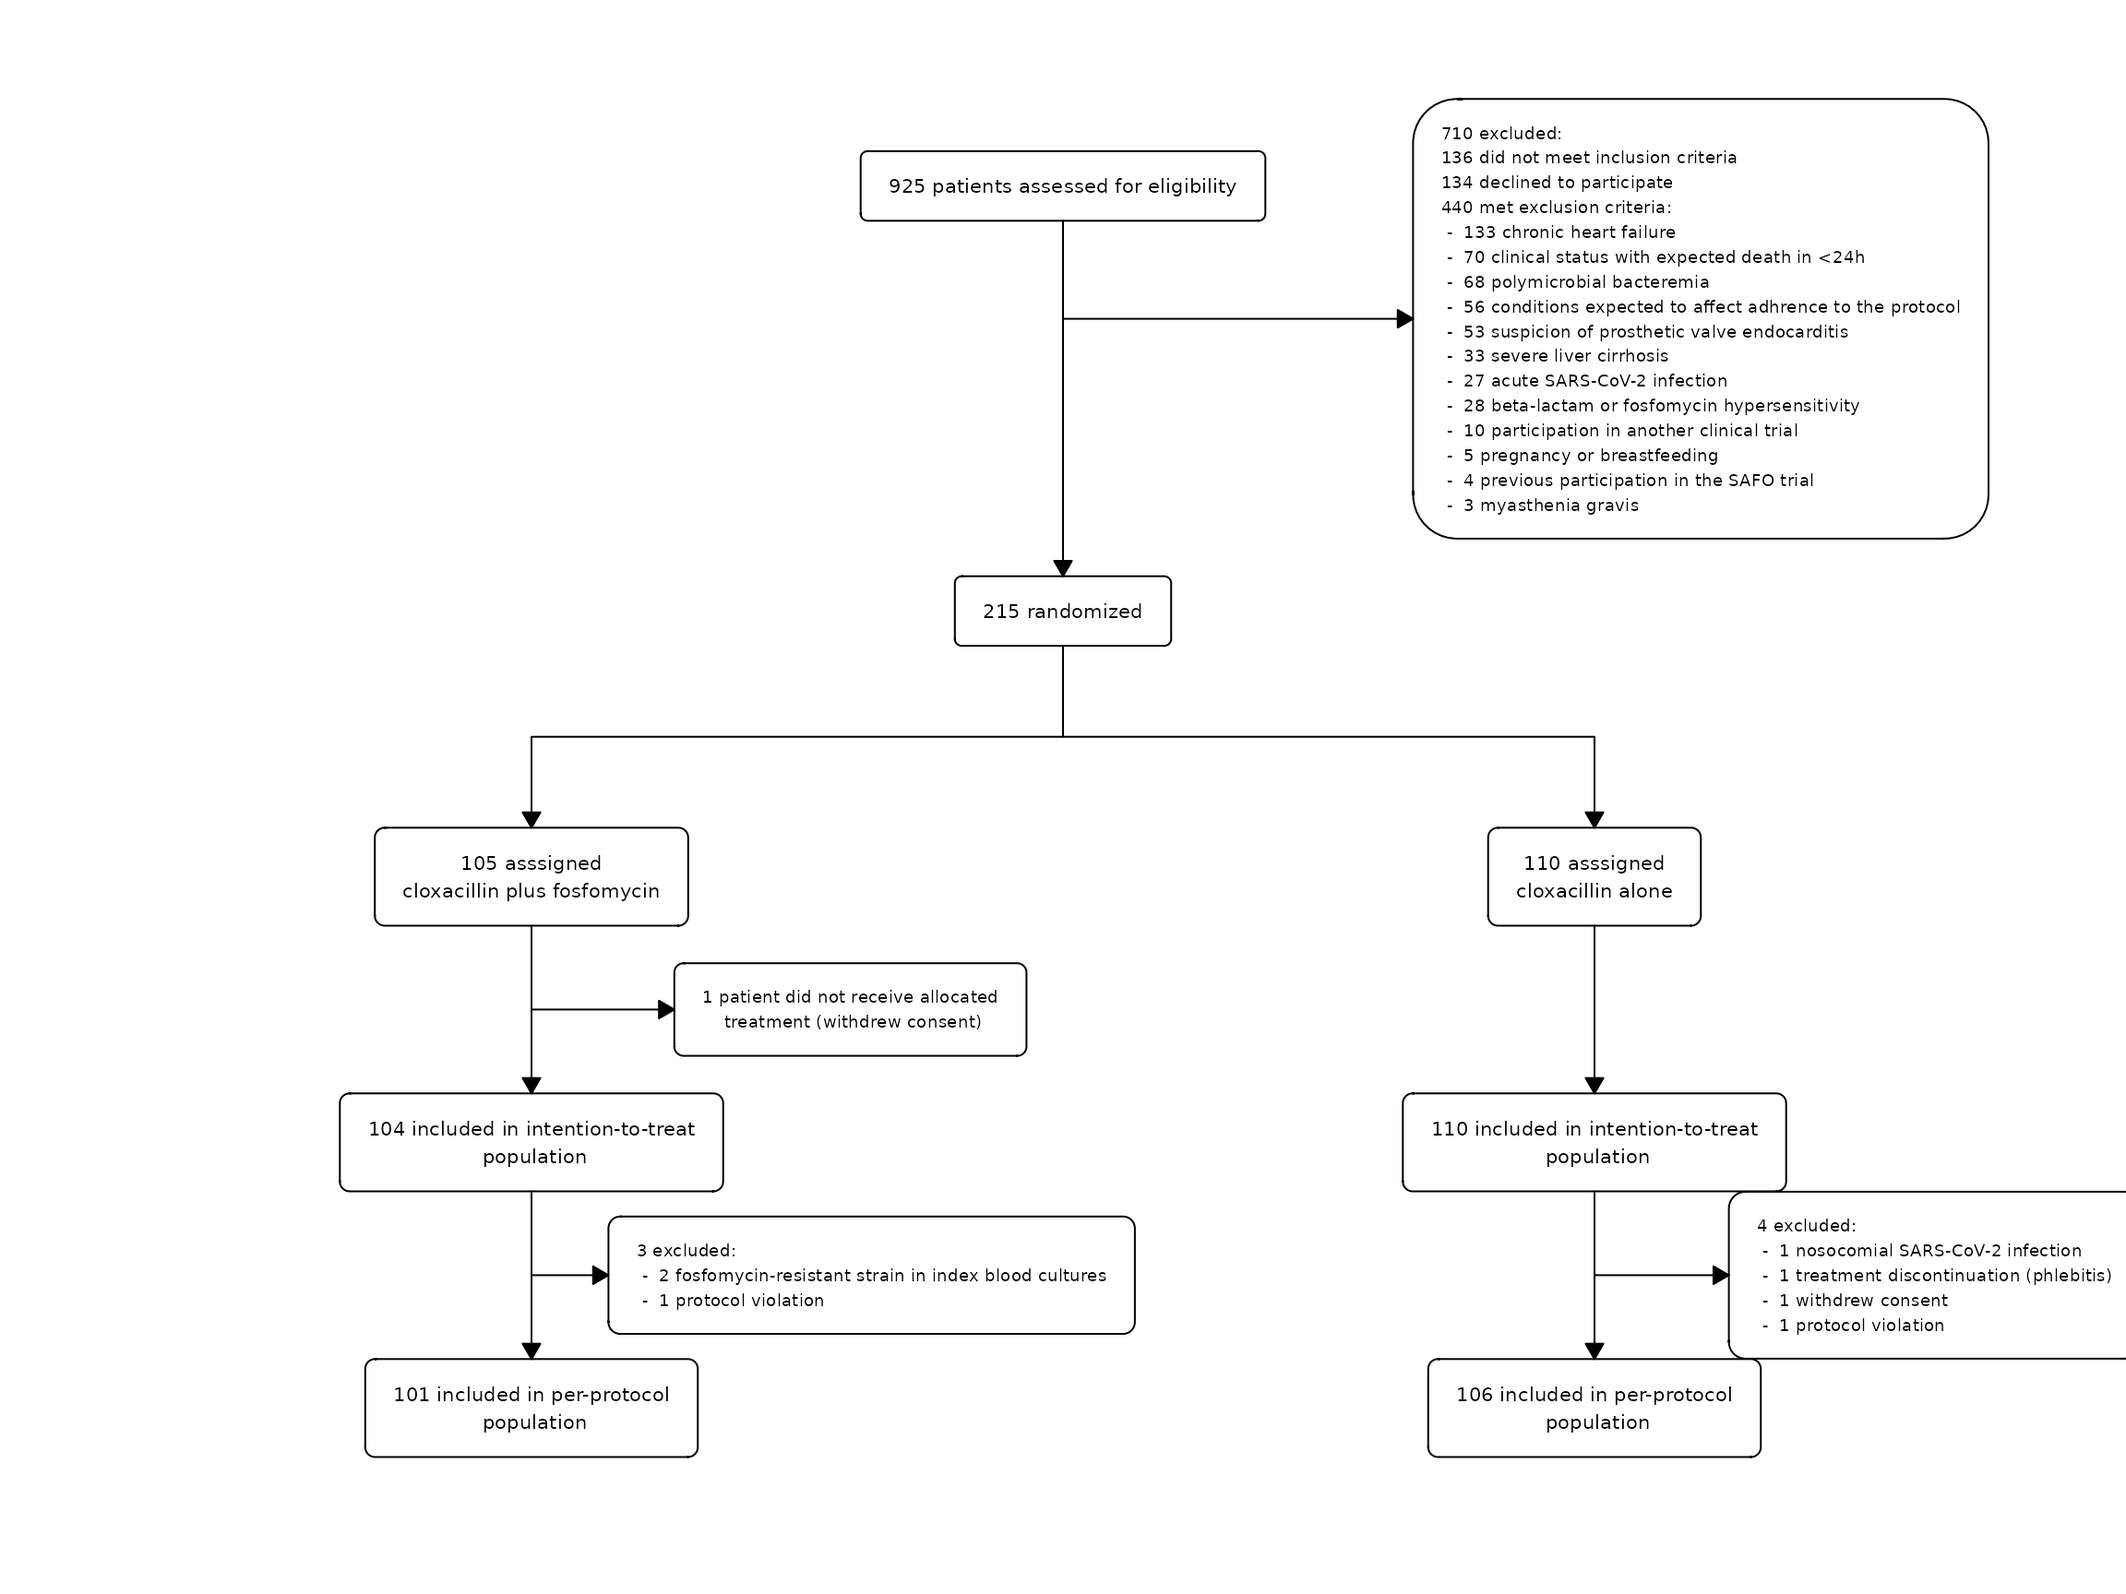
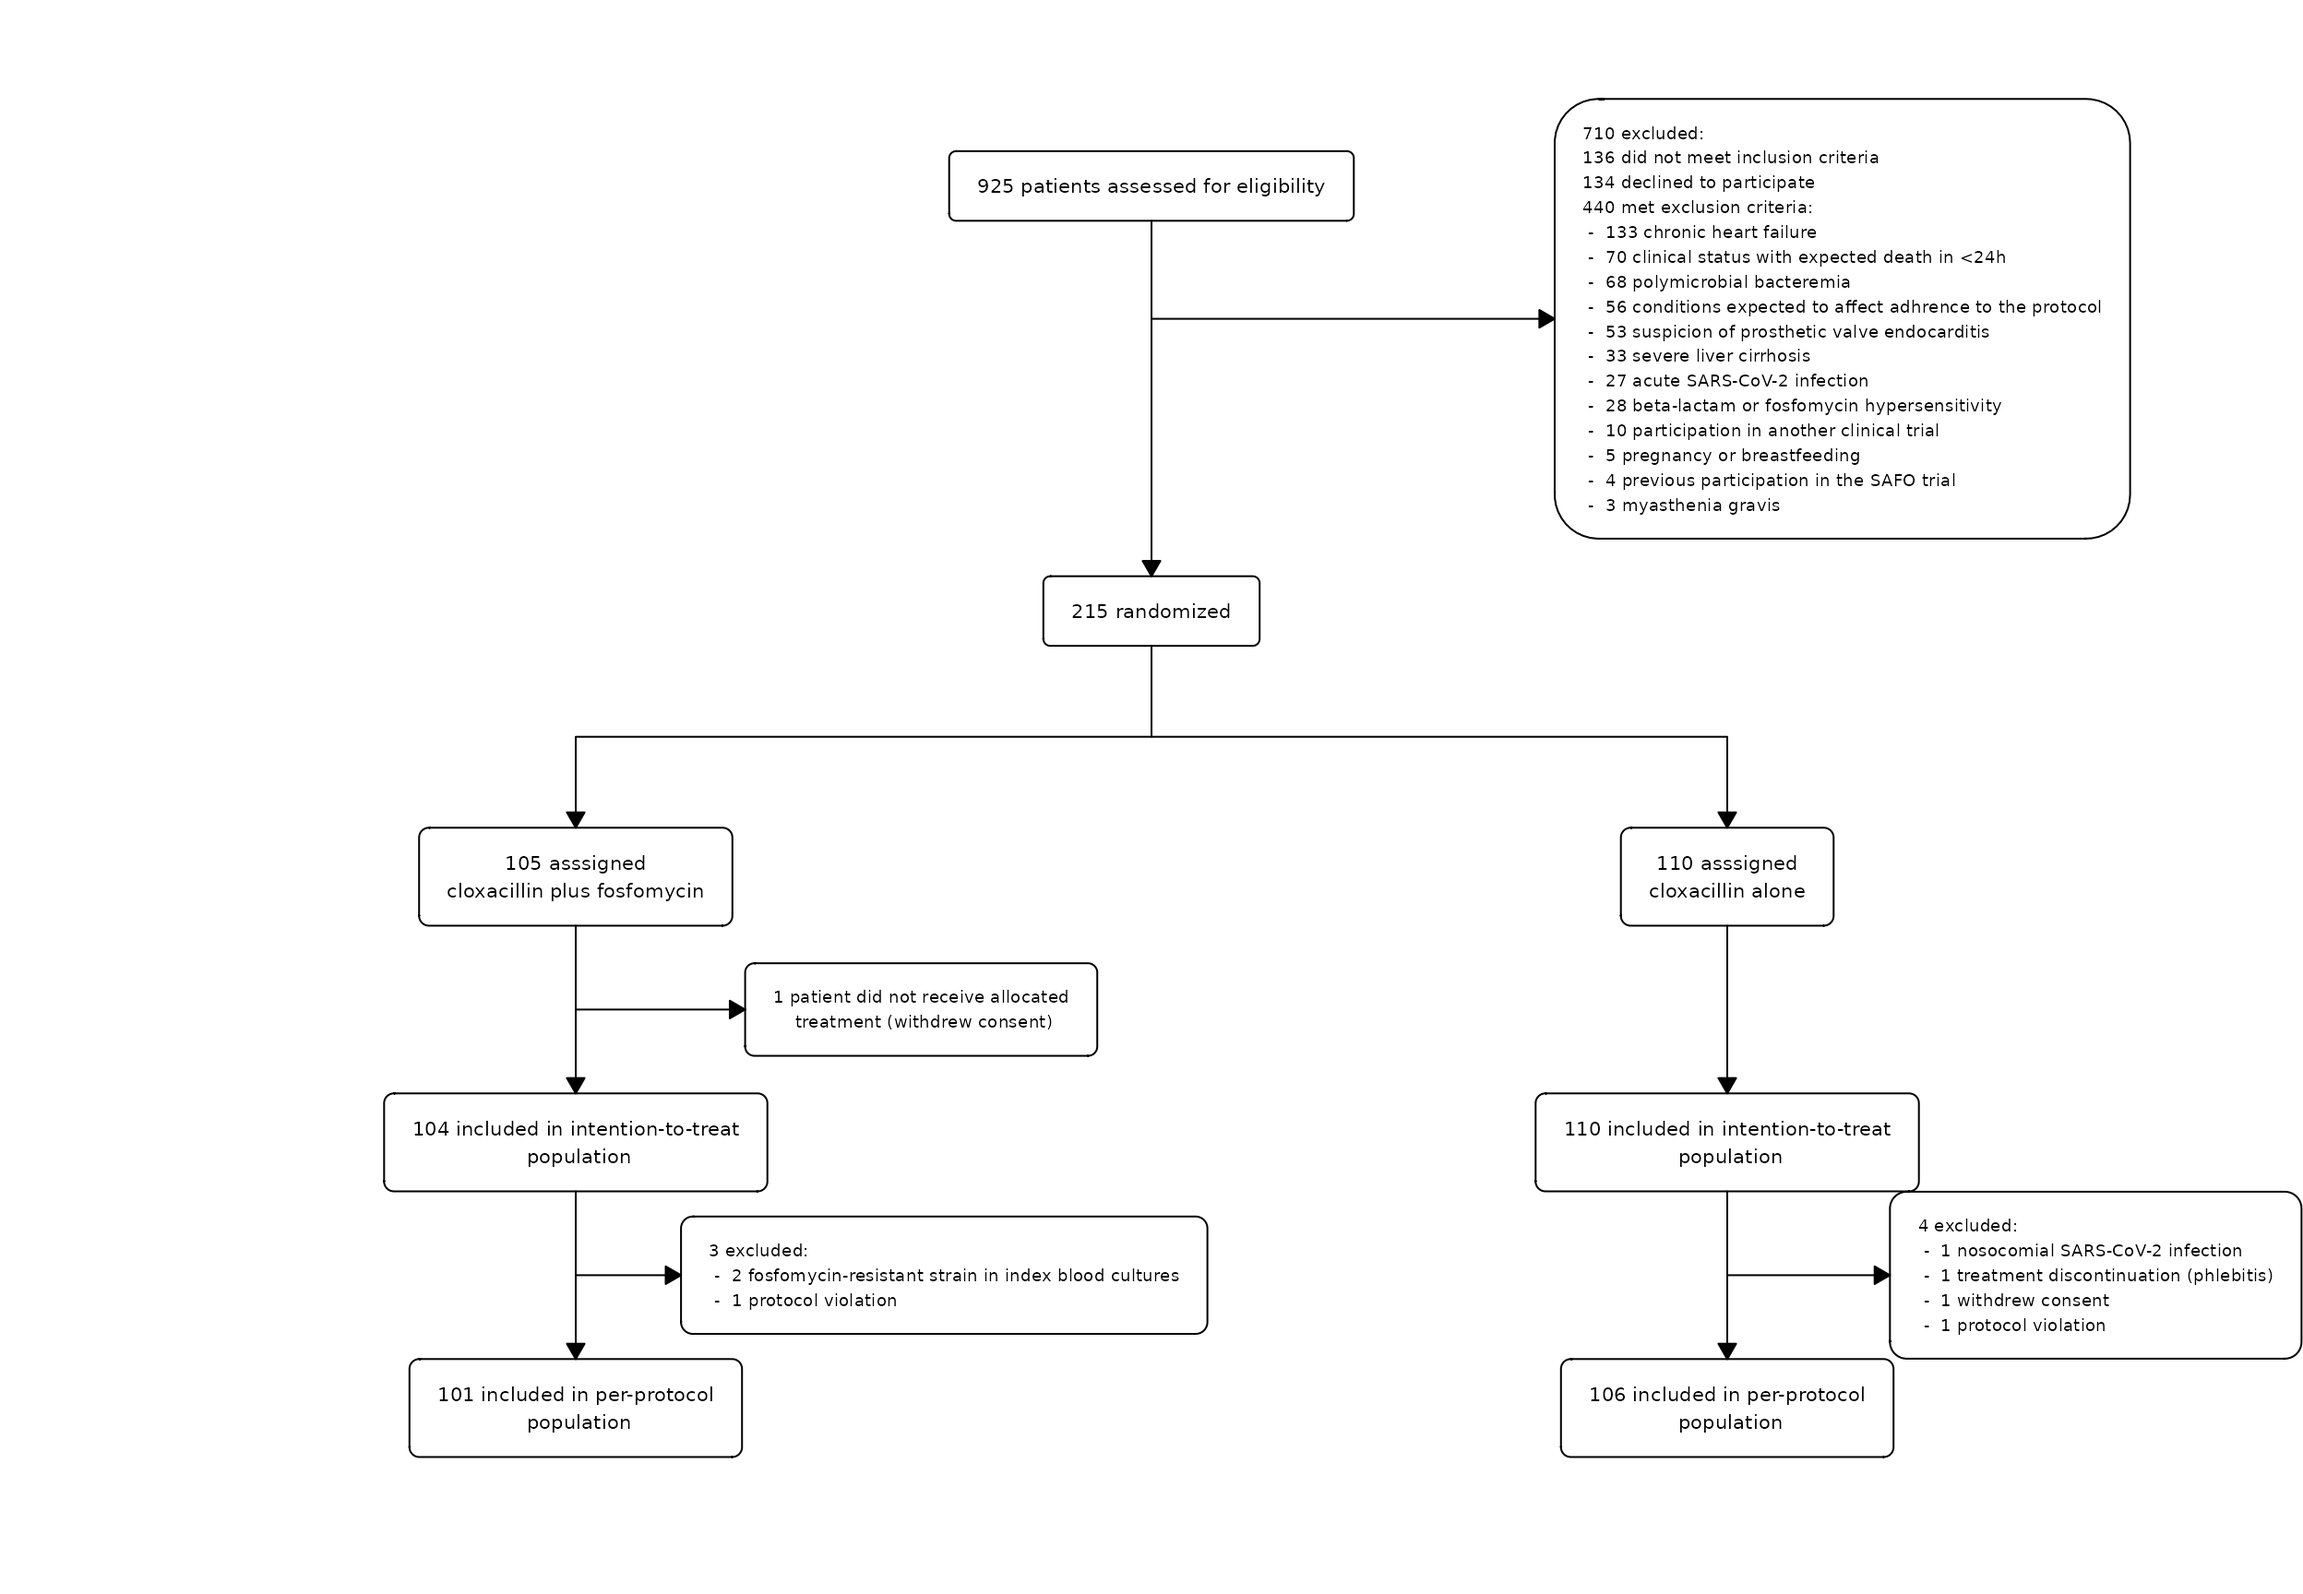
Deploying to gh-pages from @ bruigtp/flowchart@5ddcf9df24da3d4b5775994a486540bbba88a4ae 🚀

diff --git a/articles/flowchart.html b/articles/flowchart.html
@@ -965,7 +965,7 @@ in the package:</p>
 <span>      <span class="op">)</span></span>
 <span>  <span class="op">)</span> <span class="op">|&gt;</span> </span>
 <span>  <span class="fu"><a href="../reference/fc_draw.html">fc_draw</a></span><span class="op">(</span><span class="op">)</span></span></code></pre></div>
-<p><img src="flowchart_files/figure-html/unnamed-chunk-23-1.png" width="1152"></p>
+<p><img src="flowchart_files/figure-html/unnamed-chunk-23-1.png" width="1248"></p>
 </div>
 <div class="section level3">
 <h3 id="example-3">Example 3<a class="anchor" aria-label="anchor" href="#example-3"></a>
